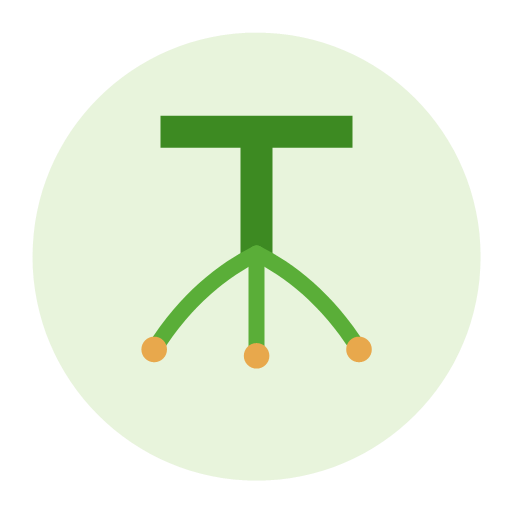
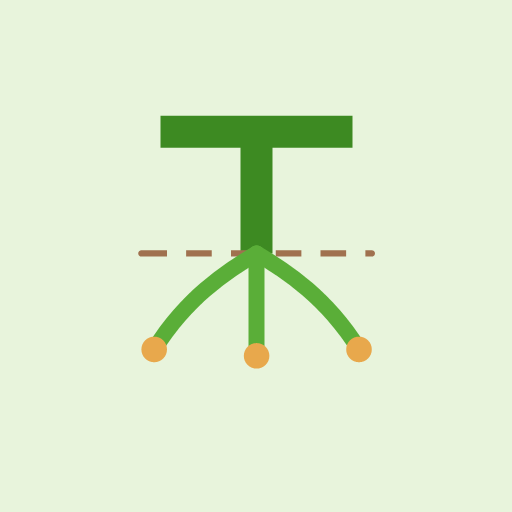
Ajustar PWA e GPS do mapa

diff --git a/src/pages/FazendaDetalhePage.jsx b/src/pages/FazendaDetalhePage.jsx
@@ -1709,6 +1709,8 @@ function SatelliteFarmMap({ normalized = [], onFeatureClick, height = 340, selec
   const suppressClickRef = useRef(false)
   const [size, setSize] = useState({ width: 0, height: 0 })
   const [view, setView] = useState(() => getSatelliteInitialView(normalized.map(item => item.feature), { width: 0, height: 0 }, fullBleed))
+  const [manualDevicePosition, setManualDevicePosition] = useState(null)
+  const [locatingDevice, setLocatingDevice] = useState(false)
   const controlsOnRight = useMediaQuery('(max-width: 899px)')
   const featureSignature = normalized.map(({ feature, index }) => {
     const ring = getFeatureRing(feature) || []
@@ -1723,8 +1725,9 @@ function SatelliteFarmMap({ normalized = [], onFeatureClick, height = 340, selec
       nome: item.nome || `Pluviometro ${index + 1}`
     }))
     .filter(item => item.ativo !== false && Number.isFinite(item.latitude) && Number.isFinite(item.longitude))
-  const deviceMarker = Number.isFinite(Number(devicePosition?.latitude)) && Number.isFinite(Number(devicePosition?.longitude))
-    ? { latitude: Number(devicePosition.latitude), longitude: Number(devicePosition.longitude), accuracy: Number(devicePosition.accuracy || 0) }
+  const liveDevicePosition = devicePosition || manualDevicePosition
+  const deviceMarker = Number.isFinite(Number(liveDevicePosition?.latitude)) && Number.isFinite(Number(liveDevicePosition?.longitude))
+    ? { latitude: Number(liveDevicePosition.latitude), longitude: Number(liveDevicePosition.longitude), accuracy: Number(liveDevicePosition.accuracy || 0) }
     : null
 
   useEffect(() => {
@@ -1968,6 +1971,40 @@ function SatelliteFarmMap({ normalized = [], onFeatureClick, height = 340, selec
     setView(current => ({ ...current, zoom: clamp(current.zoom + delta, TILE_MIN_ZOOM, TILE_MAX_ZOOM) }))
   }
 
+  function centerDeviceMarker(marker) {
+    setView(current => ({
+      ...current,
+      lat: marker.latitude,
+      lng: marker.longitude,
+      zoom: Math.max(current.zoom, 16)
+    }))
+  }
+
+  function centerOnDevice(e) {
+    e.stopPropagation()
+    if (deviceMarker) {
+      centerDeviceMarker(deviceMarker)
+      return
+    }
+    if (typeof navigator === 'undefined' || !navigator.geolocation || locatingDevice) return
+    setLocatingDevice(true)
+    navigator.geolocation.getCurrentPosition(
+      position => {
+        const coords = position.coords || {}
+        const marker = {
+          latitude: coords.latitude,
+          longitude: coords.longitude,
+          accuracy: coords.accuracy
+        }
+        setManualDevicePosition(marker)
+        centerDeviceMarker(marker)
+        setLocatingDevice(false)
+      },
+      () => setLocatingDevice(false),
+      { enableHighAccuracy: true, timeout: 15000, maximumAge: 3000 }
+    )
+  }
+
   return (
     <div
       ref={containerRef}
@@ -2073,6 +2110,11 @@ function SatelliteFarmMap({ normalized = [], onFeatureClick, height = 340, selec
       <div style={controlsOnRight ? satelliteControlsMobileStyle : satelliteControlsStyle} onPointerDown={e => e.stopPropagation()} onWheel={e => e.stopPropagation()} onDoubleClick={e => e.stopPropagation()}>
         <button type="button" aria-label="Aproximar mapa" onClick={e => changeZoom(e, 1)} style={satelliteControlButtonStyle}>+</button>
         <button type="button" aria-label="Afastar mapa" onClick={e => changeZoom(e, -1)} style={satelliteControlButtonStyle}>-</button>
+        {controlsOnRight && (
+          <button type="button" aria-label="Centralizar no GPS" title="Centralizar no GPS" onClick={centerOnDevice} style={satelliteGpsButtonStyle}>
+            {locatingDevice ? '...' : '⌖'}
+          </button>
+        )}
       </div>
       <div style={satelliteBadgeStyle}>Satelite</div>
       {normalized.length === 0 && <div style={mapEmptyHintStyle}>Nenhum talhÃ£o com geometria cadastrada</div>}
@@ -2976,6 +3018,7 @@ const satelliteSvgStyle = { position: 'absolute', inset: 0, width: '100%', heigh
 const satelliteControlsStyle = { position: 'absolute', left: 24, top: 72, display: 'grid', gap: 8, alignItems: 'center', zIndex: 5 }
 const satelliteControlsMobileStyle = { position: 'absolute', right: 12, top: 18, display: 'grid', gap: 8, alignItems: 'center', zIndex: 5 }
 const satelliteControlButtonStyle = { width: 34, height: 34, borderRadius: 10, border: '1px solid rgba(255,255,255,0.24)', background: 'rgba(255,255,255,0.92)', color: C.textDk, fontSize: 18, lineHeight: 1, fontWeight: 900, cursor: 'pointer', boxShadow: '0 8px 20px rgba(0,0,0,0.20)' }
+const satelliteGpsButtonStyle = { ...satelliteControlButtonStyle, color: C.greenDp, fontSize: 20, background: 'rgba(255,255,255,0.94)' }
 const satelliteBadgeStyle = { position: 'absolute', left: 14, bottom: 14, zIndex: 2, background: 'rgba(13,28,17,0.72)', color: 'rgba(255,255,255,0.86)', border: '1px solid rgba(255,255,255,0.18)', borderRadius: 999, padding: '6px 10px', fontSize: 10, fontWeight: 900, letterSpacing: 0, textTransform: 'uppercase', pointerEvents: 'none' }
 const mapDrawHintStyle = { position: 'absolute', left: 12, bottom: 12, background: 'rgba(255,255,255,0.94)', color: C.textDk, borderRadius: 10, padding: '8px 10px', fontSize: 12, fontWeight: 800, boxShadow: '0 4px 16px rgba(0,0,0,0.16)' }
 const mapEmptyHintStyle = { position: 'absolute', inset: 0, display: 'grid', placeItems: 'center', color: 'rgba(255,255,255,0.86)', fontSize: 13, fontWeight: 800, textAlign: 'center', padding: 20 }

diff --git a/src/styles/global.css b/src/styles/global.css
@@ -9,6 +9,12 @@ html, body, #root {
   width: 100%;
 }
 
+@supports (height: 100dvh) {
+  html, body, #root {
+    height: 100dvh;
+  }
+}
+
 body {
   font-family: Georgia, 'Times New Roman', serif;
   background: #FFFFFF;
@@ -16,16 +22,30 @@ body {
   -webkit-font-smoothing: antialiased;
   -moz-osx-font-smoothing: grayscale;
   overflow-x: hidden;
-  overscroll-behavior-x: none;
+  overscroll-behavior: none;
+  -webkit-tap-highlight-color: transparent;
+  touch-action: manipulation;
 }
 
 @media (max-width: 899px) {
-  html, body, #root {
-    min-height: 100dvh;
+  html,
+  body {
+    position: fixed;
+    inset: 0;
+    height: 100dvh;
+    max-height: 100dvh;
+    overflow: hidden;
   }
 
-  body {
-    overscroll-behavior-y: none;
+  #root {
+    position: fixed;
+    inset: 0;
+    height: 100dvh;
+    max-height: 100dvh;
+    overflow-x: hidden;
+    overflow-y: auto;
+    overscroll-behavior: none;
+    -webkit-overflow-scrolling: touch;
   }
 }
 

diff --git a/vite.config.js b/vite.config.js
@@ -7,19 +7,28 @@ export default defineConfig({
     react(),
     VitePWA({
       registerType: 'autoUpdate',
-      includeAssets: ['favicon.svg', 'apple-touch-icon.png'],
+      includeAssets: ['favicon.svg', 'apple-touch-icon.png', 'icon-192.png', 'icon-512.png', 'icon-maskable-512.png', 'og-terranexa.png'],
       manifest: {
+        id: '/',
         name: 'TerraNexa',
         short_name: 'TerraNexa',
-        description: 'Gestão do campo para pequenos produtores',
+        description: 'Gestao do campo para pequenos produtores',
         lang: 'pt-BR',
         theme_color: '#3D8A22',
-        background_color: '#FFFFFF',
+        background_color: '#102316',
         display: 'standalone',
-        orientation: 'portrait',
+        display_override: ['fullscreen', 'standalone'],
+        orientation: 'portrait-primary',
         scope: '/',
         start_url: '/',
+        categories: ['business', 'productivity', 'utilities'],
         icons: [
+          {
+            src: '/favicon.svg',
+            sizes: 'any',
+            type: 'image/svg+xml',
+            purpose: 'any'
+          },
           {
             src: '/icon-192.png',
             sizes: '192x192',
@@ -31,10 +40,19 @@ export default defineConfig({
             type: 'image/png'
           },
           {
-            src: '/icon-512.png',
+            src: '/icon-maskable-512.png',
             sizes: '512x512',
             type: 'image/png',
-            purpose: 'any maskable'
+            purpose: 'maskable'
+          }
+        ],
+        shortcuts: [
+          {
+            name: 'Abrir mapa',
+            short_name: 'Mapa',
+            description: 'Abrir o mapa principal da fazenda',
+            url: '/',
+            icons: [{ src: '/icon-192.png', sizes: '192x192' }]
           }
         ]
       },

diff --git a/index.html b/index.html
@@ -3,9 +3,26 @@
   <head>
     <meta charset="UTF-8" />
     <link rel="icon" type="image/svg+xml" href="/favicon.svg" />
+    <link rel="apple-touch-icon" href="/apple-touch-icon.png" />
+    <link rel="manifest" href="/manifest.webmanifest" />
     <meta name="viewport" content="width=device-width, initial-scale=1.0, viewport-fit=cover" />
     <meta name="theme-color" content="#3D8A22" />
-    <meta name="description" content="TerraNexa — Gestão do campo para pequenos produtores" />
+    <meta name="description" content="TerraNexa - Gestao do campo para pequenos produtores" />
+    <meta name="mobile-web-app-capable" content="yes" />
+    <meta name="apple-mobile-web-app-capable" content="yes" />
+    <meta name="apple-mobile-web-app-title" content="TerraNexa" />
+    <meta name="apple-mobile-web-app-status-bar-style" content="black-translucent" />
+    <meta name="msapplication-TileColor" content="#3D8A22" />
+    <meta property="og:type" content="website" />
+    <meta property="og:site_name" content="TerraNexa" />
+    <meta property="og:title" content="TerraNexa" />
+    <meta property="og:description" content="Gestao do campo para pequenos produtores" />
+    <meta property="og:image" content="https://terranexa.vercel.app/og-terranexa.png" />
+    <meta property="og:url" content="https://terranexa.vercel.app/" />
+    <meta name="twitter:card" content="summary_large_image" />
+    <meta name="twitter:title" content="TerraNexa" />
+    <meta name="twitter:description" content="Gestao do campo para pequenos produtores" />
+    <meta name="twitter:image" content="https://terranexa.vercel.app/og-terranexa.png" />
     <title>TerraNexa</title>
   </head>
   <body>